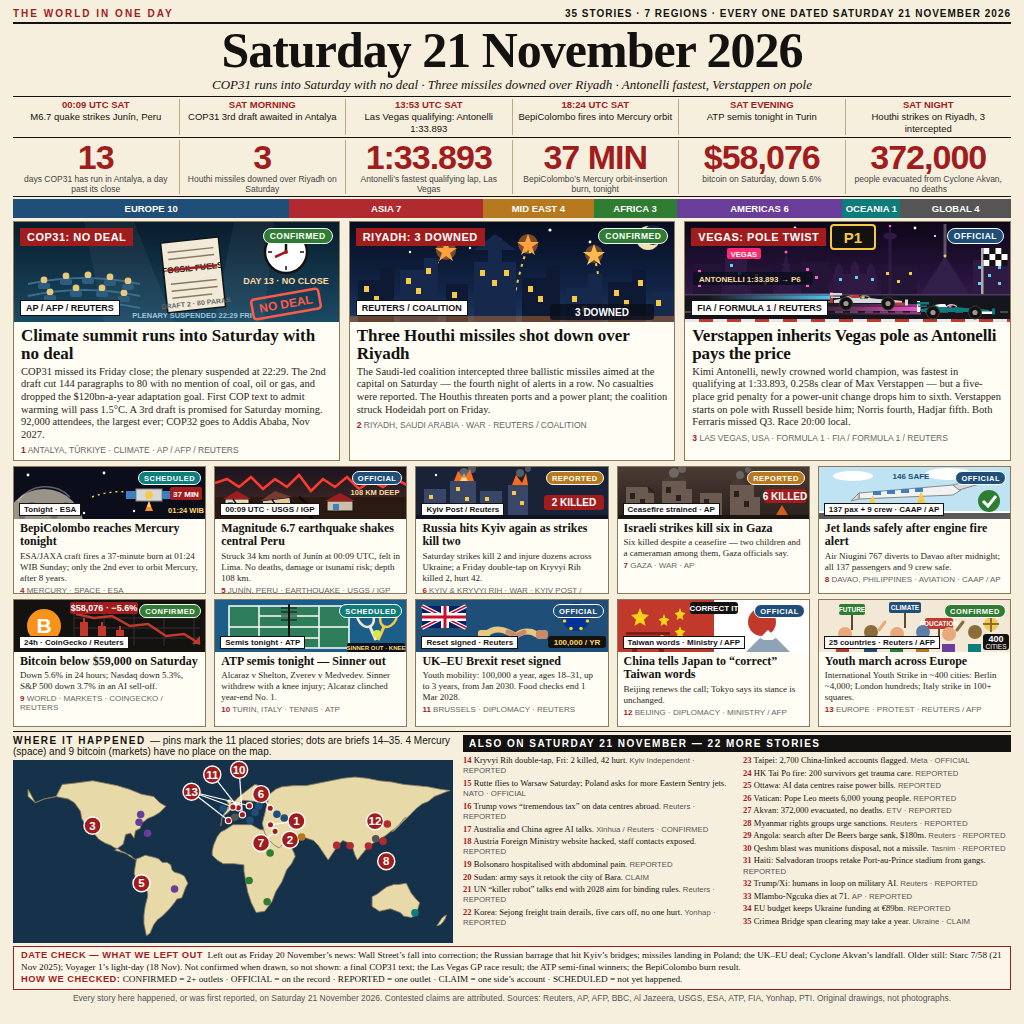
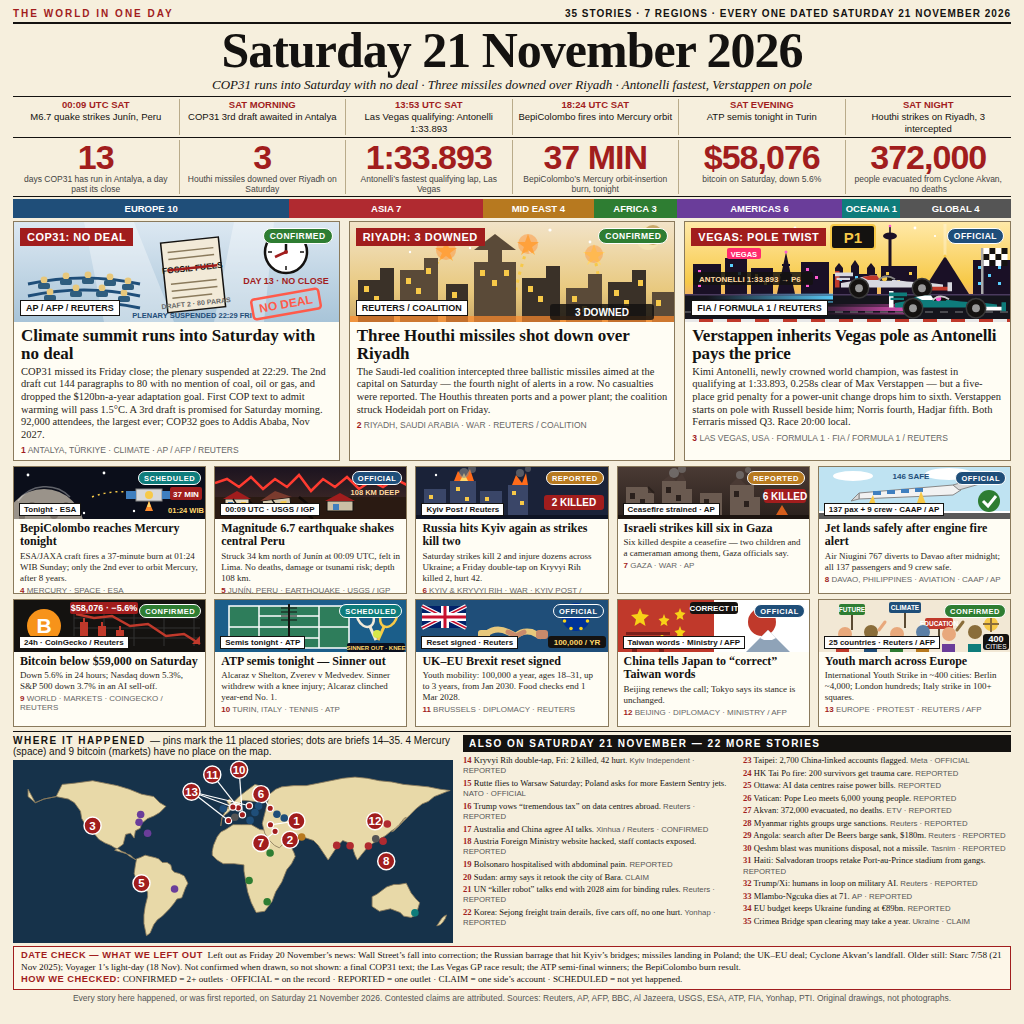
news-image-20261121 v3: brighter leads, bigger Vegas hero

Changed region(s): [[0.0, 0.2188, 1.0, 0.3125]]

diff --git a/page.html b/page.html
@@ -84,7 +84,7 @@ h1{font-size:50px;line-height:1.02;text-align:center;letter-spacing:-1px;padding
 <div class="leads">
 <div class="lead">
 <div class="art" style="background:#0d2a3d">
-<svg width="325" height="100" viewBox="0 0 325 100"><defs><linearGradient id="gCop" x1="0" y1="0" x2="0" y2="1"><stop offset="0" stop-color="#081c2c"/><stop offset="1" stop-color="#1a4a64"/></linearGradient></defs><rect x="0" y="0" width="325" height="100" fill="url(#gCop)"/><polygon points="70,0 120,0 160,100 90,100" fill="#ffffff" opacity="0.05"/><polygon points="220,0 260,0 250,100 200,100" fill="#ffffff" opacity="0.05"/><g stroke="#3f6d8e" stroke-width="2" fill="none"><path d="M14 62 Q70 50 126 62"/><path d="M14 74 Q70 62 126 74"/><path d="M14 86 Q70 74 126 86"/></g><g fill="#e8c87c"><circle cx="30" cy="58" r="3.4"/><circle cx="52" cy="54" r="3.4"/><circle cx="74" cy="53" r="3.4"/><circle cx="96" cy="55" r="3.4"/><circle cx="114" cy="59" r="3.4"/><circle cx="36" cy="70" r="3.4"/><circle cx="62" cy="66" r="3.4"/><circle cx="88" cy="66" r="3.4"/><circle cx="110" cy="71" r="3.4"/></g><g fill="#2f5d7e"><rect x="24" y="61" width="12" height="6" rx="2"/><rect x="46" y="57" width="12" height="6" rx="2"/><rect x="68" y="56" width="12" height="6" rx="2"/><rect x="90" y="58" width="12" height="6" rx="2"/><rect x="108" y="62" width="12" height="6" rx="2"/><rect x="30" y="73" width="12" height="6" rx="2"/><rect x="56" y="69" width="12" height="6" rx="2"/><rect x="82" y="69" width="12" height="6" rx="2"/><rect x="104" y="74" width="12" height="6" rx="2"/></g><text x="178" y="96" font-family="Arial" font-size="7.5" font-weight="700" fill="#9fc4dd" text-anchor="middle">PLENARY SUSPENDED 22:29 FRI</text><g transform="rotate(-6 178 52)"><rect x="150" y="18" width="58" height="70" fill="#f2ead8" stroke="#141210" stroke-width="1.5"/><g stroke="#8a7a5c" stroke-width="1.5"><line x1="156" y1="28" x2="202" y2="28"/><line x1="156" y1="35" x2="202" y2="35"/><line x1="156" y1="60" x2="202" y2="60"/><line x1="156" y1="67" x2="202" y2="67"/><line x1="156" y1="74" x2="196" y2="74"/></g><text x="179" y="49" font-family="Arial" font-size="8.5" font-weight="700" fill="#141210" text-anchor="middle">FOSSIL FUELS</text><line x1="154" y1="46" x2="204" y2="46" stroke="#a11d1d" stroke-width="2.5"/><text x="179" y="84" font-family="Arial" font-size="7" font-weight="700" fill="#666" text-anchor="middle">DRAFT 2 &middot; 80 PARAS</text></g><circle cx="272" cy="30" r="21" fill="#fff" stroke="#141210" stroke-width="2.5"/><g stroke="#141210" stroke-width="1.5"><line x1="272" y1="12" x2="272" y2="16"/><line x1="272" y1="44" x2="272" y2="48"/><line x1="254" y1="30" x2="258" y2="30"/><line x1="286" y1="30" x2="290" y2="30"/></g><line x1="272" y1="30" x2="272" y2="17" stroke="#141210" stroke-width="2.5"/><line x1="272" y1="30" x2="261" y2="35" stroke="#a11d1d" stroke-width="2.5"/><circle cx="272" cy="30" r="2" fill="#a11d1d"/><text x="272" y="62" font-family="Arial" font-size="9" font-weight="700" fill="#ffd9a0" text-anchor="middle">DAY 13 &middot; NO CLOSE</text><g transform="rotate(-10 272 82)"><rect x="238" y="72" width="68" height="20" rx="3" fill="none" stroke="#ff5a4a" stroke-width="2.5"/><text x="272" y="86" font-family="Arial" font-size="12" font-weight="700" fill="#ff5a4a" text-anchor="middle">NO DEAL</text></g></svg>
+<svg width="325" height="100" viewBox="0 0 325 100"><defs><linearGradient id="gCop" x1="0" y1="0" x2="0" y2="1"><stop offset="0" stop-color="#dce8f2"/><stop offset="1" stop-color="#a8c4d8"/></linearGradient></defs><rect x="0" y="0" width="325" height="100" fill="url(#gCop)"/><polygon points="70,0 120,0 160,100 90,100" fill="#ffffff" opacity="0.35"/><polygon points="220,0 260,0 250,100 200,100" fill="#ffffff" opacity="0.35"/><g stroke="#1f4e79" stroke-width="3" fill="none"><path d="M14 62 Q70 50 126 62"/><path d="M14 74 Q70 62 126 74"/><path d="M14 86 Q70 74 126 86"/></g><g fill="#e8c87c"><circle cx="30" cy="58" r="3.4"/><circle cx="52" cy="54" r="3.4"/><circle cx="74" cy="53" r="3.4"/><circle cx="96" cy="55" r="3.4"/><circle cx="114" cy="59" r="3.4"/><circle cx="36" cy="70" r="3.4"/><circle cx="62" cy="66" r="3.4"/><circle cx="88" cy="66" r="3.4"/><circle cx="110" cy="71" r="3.4"/></g><g fill="#2f5d7e"><rect x="24" y="61" width="12" height="6" rx="2"/><rect x="46" y="57" width="12" height="6" rx="2"/><rect x="68" y="56" width="12" height="6" rx="2"/><rect x="90" y="58" width="12" height="6" rx="2"/><rect x="108" y="62" width="12" height="6" rx="2"/><rect x="30" y="73" width="12" height="6" rx="2"/><rect x="56" y="69" width="12" height="6" rx="2"/><rect x="82" y="69" width="12" height="6" rx="2"/><rect x="104" y="74" width="12" height="6" rx="2"/></g><text x="178" y="96" font-family="Arial" font-size="7.5" font-weight="700" fill="#1f4e79" text-anchor="middle">PLENARY SUSPENDED 22:29 FRI</text><g transform="rotate(-6 178 52)"><rect x="150" y="18" width="58" height="70" fill="#f2ead8" stroke="#141210" stroke-width="1.5"/><g stroke="#8a7a5c" stroke-width="1.5"><line x1="156" y1="28" x2="202" y2="28"/><line x1="156" y1="35" x2="202" y2="35"/><line x1="156" y1="60" x2="202" y2="60"/><line x1="156" y1="67" x2="202" y2="67"/><line x1="156" y1="74" x2="196" y2="74"/></g><text x="179" y="49" font-family="Arial" font-size="8.5" font-weight="700" fill="#141210" text-anchor="middle">FOSSIL FUELS</text><line x1="154" y1="46" x2="204" y2="46" stroke="#a11d1d" stroke-width="2.5"/><text x="179" y="84" font-family="Arial" font-size="7" font-weight="700" fill="#666" text-anchor="middle">DRAFT 2 &middot; 80 PARAS</text></g><circle cx="272" cy="30" r="21" fill="#fff" stroke="#141210" stroke-width="2.5"/><g stroke="#141210" stroke-width="1.5"><line x1="272" y1="12" x2="272" y2="16"/><line x1="272" y1="44" x2="272" y2="48"/><line x1="254" y1="30" x2="258" y2="30"/><line x1="286" y1="30" x2="290" y2="30"/></g><line x1="272" y1="30" x2="272" y2="17" stroke="#141210" stroke-width="2.5"/><line x1="272" y1="30" x2="261" y2="35" stroke="#a11d1d" stroke-width="2.5"/><circle cx="272" cy="30" r="2" fill="#a11d1d"/><text x="272" y="62" font-family="Arial" font-size="9" font-weight="700" fill="#a11d1d" text-anchor="middle">DAY 13 &middot; NO CLOSE</text><g transform="rotate(-10 272 82)"><rect x="238" y="72" width="68" height="20" rx="3" fill="none" stroke="#ff5a4a" stroke-width="2.5"/><text x="272" y="86" font-family="Arial" font-size="12" font-weight="700" fill="#ff5a4a" text-anchor="middle">NO DEAL</text></g></svg>
 <span class="flag">COP31: NO DEAL</span><span class="pill p-conf">CONFIRMED</span><span class="tag">AP / AFP / REUTERS</span></div>
 <h2>Climate summit runs into Saturday with no deal</h2>
 <p>COP31 missed its Friday close; the plenary suspended at 22:29. The 2nd draft cut 144 paragraphs to 80 with no mention of coal, oil or gas, and dropped the $120bn-a-year adaptation goal. First COP text to admit warming will pass 1.5&deg;C. A 3rd draft is promised for Saturday morning. 92,000 attendees, the largest ever; COP32 goes to Addis Ababa, Nov 2027.</p>
@@ -92,7 +92,7 @@ h1{font-size:50px;line-height:1.02;text-align:center;letter-spacing:-1px;padding
 </div>
 <div class="lead">
 <div class="art" style="background:#101a33">
-<svg width="325" height="100" viewBox="0 0 325 100"><defs><linearGradient id="gSau" x1="0" y1="0" x2="0" y2="1"><stop offset="0" stop-color="#070d1f"/><stop offset="0.7" stop-color="#12264a"/><stop offset="1" stop-color="#1d3a5f"/></linearGradient></defs><rect x="0" y="0" width="325" height="100" fill="url(#gSau)"/><g fill="#fff"><circle cx="30" cy="14" r="1.6"/><circle cx="90" cy="10" r="1.6"/><circle cx="150" cy="18" r="1.4"/><circle cx="200" cy="8" r="1.6"/><circle cx="240" cy="20" r="1.4"/><circle cx="120" cy="26" r="1.2"/><circle cx="60" cy="30" r="1.2"/><circle cx="180" cy="30" r="1.2"/></g><circle cx="298" cy="16" r="12" fill="#f4e3b2"/><circle cx="303" cy="13" r="10" fill="#12264a"/><g><path d="M60 100 Q70 60 96 30" stroke="#f7c948" stroke-width="2" fill="none" stroke-dasharray="3 5"/><path d="M160 100 Q166 58 178 24" stroke="#f7c948" stroke-width="2" fill="none" stroke-dasharray="3 5"/><path d="M250 100 Q252 62 244 34" stroke="#f7c948" stroke-width="2" fill="none" stroke-dasharray="3 5"/></g><g><path d="M96 18 L99 26 L107 26 L100 31 L103 39 L96 34 L89 39 L92 31 L85 26 L93 26Z" fill="#ffb347"/><circle cx="96" cy="28" r="10" fill="#ff8c2e" opacity="0.45"/><path d="M178 12 L181 20 L189 20 L182 25 L185 33 L178 28 L171 33 L174 25 L167 20 L175 20Z" fill="#ffb347"/><circle cx="178" cy="22" r="10" fill="#ff8c2e" opacity="0.45"/><path d="M244 22 L247 30 L255 30 L248 35 L251 43 L244 38 L237 43 L240 35 L233 30 L241 30Z" fill="#ffd76a"/><circle cx="244" cy="32" r="9" fill="#ff8c2e" opacity="0.4"/></g><g><path d="M8 100 L8 58 L30 58 L30 46 L44 46 L44 100Z" fill="#0e1a33"/><path d="M50 100 L50 48 L74 48 L74 36 L88 36 L88 100Z" fill="#16294d"/><path d="M96 100 L96 62 L118 62 L118 100Z" fill="#0e1a33"/><path d="M124 100 L124 40 L138 40 L138 28 L152 28 L152 40 L166 40 L166 100Z" fill="#16294d"/><path d="M124 28 L145 12 L166 28Z" fill="#16294d"/><path d="M172 100 L172 56 L196 56 L196 44 L210 44 L210 100Z" fill="#0e1a33"/><path d="M216 100 L216 66 L238 66 L238 52 L252 52 L252 100Z" fill="#16294d"/><path d="M258 100 L258 60 L282 60 L282 48 L296 48 L296 100Z" fill="#0e1a33"/><path d="M302 100 L302 70 L325 70 L325 100Z" fill="#16294d"/></g><g fill="#f7c948"><rect x="14" y="64" width="5" height="6"/><rect x="24" y="74" width="5" height="6"/><rect x="56" y="56" width="5" height="6"/><rect x="66" y="66" width="5" height="6"/><rect x="76" y="46" width="5" height="6"/><rect x="102" y="70" width="5" height="6"/><rect x="130" y="48" width="5" height="6"/><rect x="142" y="58" width="5" height="6"/><rect x="154" y="48" width="5" height="6"/><rect x="178" y="64" width="5" height="6"/><rect x="188" y="74" width="5" height="6"/><rect x="222" y="74" width="5" height="6"/><rect x="232" y="84" width="5" height="6"/><rect x="264" y="68" width="5" height="6"/><rect x="274" y="78" width="5" height="6"/><rect x="288" y="58" width="5" height="6"/><rect x="306" y="78" width="5" height="6"/></g><rect x="0" y="94" width="325" height="6" fill="#ff8c2e" opacity="0.35"/><rect x="200" y="82" width="104" height="16" rx="3" fill="#0a0f1e" opacity="0.85"/><text x="252" y="94" font-family="Arial" font-size="10" font-weight="700" fill="#fff" text-anchor="middle">3 DOWNED</text></svg>
+<svg width="325" height="100" viewBox="0 0 325 100"><defs><linearGradient id="gSau" x1="0" y1="0" x2="0" y2="1"><stop offset="0" stop-color="#f2e3c8"/><stop offset="0.7" stop-color="#e8c87c"/><stop offset="1" stop-color="#c9a86a"/></linearGradient></defs><rect x="0" y="0" width="325" height="100" fill="url(#gSau)"/><g fill="#fff"><circle cx="30" cy="14" r="1.6"/><circle cx="90" cy="10" r="1.6"/><circle cx="150" cy="18" r="1.4"/><circle cx="200" cy="8" r="1.6"/><circle cx="240" cy="20" r="1.4"/><circle cx="120" cy="26" r="1.2"/><circle cx="60" cy="30" r="1.2"/><circle cx="180" cy="30" r="1.2"/></g><circle cx="298" cy="16" r="12" fill="#f4e3b2"/><circle cx="303" cy="13" r="10" fill="#c9a86a"/><g><path d="M60 100 Q70 60 96 30" stroke="#f7c948" stroke-width="3" fill="none" stroke-dasharray="3 5"/><path d="M160 100 Q166 58 178 24" stroke="#f7c948" stroke-width="3" fill="none" stroke-dasharray="3 5"/><path d="M250 100 Q252 62 244 34" stroke="#f7c948" stroke-width="3" fill="none" stroke-dasharray="3 5"/></g><g><path d="M96 18 L99 26 L107 26 L100 31 L103 39 L96 34 L89 39 L92 31 L85 26 L93 26Z" fill="#ffb347"/><circle cx="96" cy="28" r="10" fill="#ff8c2e" opacity="0.45"/><path d="M178 12 L181 20 L189 20 L182 25 L185 33 L178 28 L171 33 L174 25 L167 20 L175 20Z" fill="#ffb347"/><circle cx="178" cy="22" r="10" fill="#ff8c2e" opacity="0.45"/><path d="M244 22 L247 30 L255 30 L248 35 L251 43 L244 38 L237 43 L240 35 L233 30 L241 30Z" fill="#ffd76a"/><circle cx="244" cy="32" r="9" fill="#ff8c2e" opacity="0.4"/></g><g><path d="M8 100 L8 58 L30 58 L30 46 L44 46 L44 100Z" fill="#3a3128"/><path d="M50 100 L50 48 L74 48 L74 36 L88 36 L88 100Z" fill="#5a4a38"/><path d="M96 100 L96 62 L118 62 L118 100Z" fill="#3a3128"/><path d="M124 100 L124 40 L138 40 L138 28 L152 28 L152 40 L166 40 L166 100Z" fill="#5a4a38"/><path d="M124 28 L145 12 L166 28Z" fill="#5a4a38"/><path d="M172 100 L172 56 L196 56 L196 44 L210 44 L210 100Z" fill="#3a3128"/><path d="M216 100 L216 66 L238 66 L238 52 L252 52 L252 100Z" fill="#5a4a38"/><path d="M258 100 L258 60 L282 60 L282 48 L296 48 L296 100Z" fill="#3a3128"/><path d="M302 100 L302 70 L325 70 L325 100Z" fill="#5a4a38"/></g><g fill="#f7c948"><rect x="14" y="64" width="5" height="6"/><rect x="24" y="74" width="5" height="6"/><rect x="56" y="56" width="5" height="6"/><rect x="66" y="66" width="5" height="6"/><rect x="76" y="46" width="5" height="6"/><rect x="102" y="70" width="5" height="6"/><rect x="130" y="48" width="5" height="6"/><rect x="142" y="58" width="5" height="6"/><rect x="154" y="48" width="5" height="6"/><rect x="178" y="64" width="5" height="6"/><rect x="188" y="74" width="5" height="6"/><rect x="222" y="74" width="5" height="6"/><rect x="232" y="84" width="5" height="6"/><rect x="264" y="68" width="5" height="6"/><rect x="274" y="78" width="5" height="6"/><rect x="288" y="58" width="5" height="6"/><rect x="306" y="78" width="5" height="6"/></g><rect x="0" y="94" width="325" height="6" fill="#ff8c2e" opacity="0.7"/><rect x="200" y="82" width="104" height="16" rx="3" fill="#141210" opacity="0.85"/><text x="252" y="94" font-family="Arial" font-size="10" font-weight="700" fill="#fff" text-anchor="middle">3 DOWNED</text></svg>
 <span class="flag">RIYADH: 3 DOWNED</span><span class="pill p-conf">CONFIRMED</span><span class="tag">REUTERS / COALITION</span></div>
 <h2>Three Houthi missiles shot down over Riyadh</h2>
 <p>The Saudi-led coalition intercepted three ballistic missiles aimed at the capital on Saturday &mdash; the fourth night of alerts in a row. No casualties were reported. The Houthis threaten ports and a power plant; the coalition struck Hodeidah port on Friday.</p>
@@ -100,7 +100,7 @@ h1{font-size:50px;line-height:1.02;text-align:center;letter-spacing:-1px;padding
 </div>
 <div class="lead">
 <div class="art" style="background:#241030">
-<svg width="325" height="100" viewBox="0 0 325 100"><defs><linearGradient id="gVeg" x1="0" y1="0" x2="0" y2="1"><stop offset="0" stop-color="#0d0618"/><stop offset="0.6" stop-color="#2a1440"/><stop offset="1" stop-color="#4a2050"/></linearGradient><linearGradient id="gTrC" x1="0" y1="0" x2="1" y2="0"><stop offset="0" stop-color="#5ad0ff" stop-opacity="0"/><stop offset="1" stop-color="#5ad0ff" stop-opacity="0.95"/></linearGradient><linearGradient id="gTrM" x1="0" y1="0" x2="1" y2="0"><stop offset="0" stop-color="#ff5ad0" stop-opacity="0"/><stop offset="1" stop-color="#ff5ad0" stop-opacity="0.95"/></linearGradient></defs><rect x="0" y="0" width="325" height="100" fill="url(#gVeg)"/><g fill="#fff"><circle cx="24" cy="8" r="1.4"/><circle cx="110" cy="6" r="1.4"/><circle cx="160" cy="10" r="1.2"/><circle cx="230" cy="6" r="1.4"/><circle cx="70" cy="14" r="1.1"/><circle cx="250" cy="14" r="1.1"/></g><g><rect x="8" y="42" width="28" height="30" fill="#241436"/><rect x="40" y="36" width="22" height="36" fill="#2e1a42"/><rect x="66" y="46" width="22" height="26" fill="#241436"/><path d="M92 72 L101 30 L110 72Z" fill="#2e1a42"/><rect x="95" y="52" width="12" height="2.5" fill="#2e1a42"/><rect x="97" y="42" width="8" height="2" fill="#2e1a42"/><circle cx="101" cy="30" r="1.5" fill="#ff5ad0"/><rect x="116" y="40" width="28" height="32" fill="#241436"/><rect x="148" y="52" width="44" height="20" fill="#2e1a42"/><path d="M150 46 L154 41 L158 46Z M166 44 L170 38 L174 44Z M182 46 L186 41 L190 46Z" fill="#2e1a42"/><rect x="150" y="46" width="8" height="6" fill="#2e1a42"/><rect x="166" y="44" width="8" height="8" fill="#2e1a42"/><rect x="182" y="46" width="8" height="6" fill="#2e1a42"/><rect x="196" y="44" width="36" height="28" fill="#241436"/><rect x="203.5" y="16" width="3" height="56" fill="#2e1a42"/><ellipse cx="205" cy="14" rx="7" ry="3.5" fill="#2e1a42"/><rect x="204.2" y="4" width="1.6" height="8" fill="#2e1a42"/><circle cx="205" cy="4" r="1.3" fill="#ff5ad0"/><path d="M236 72 L260 34 L284 72Z" fill="#33204a"/><rect x="258.5" y="2" width="3" height="32" fill="#fff" opacity="0.3"/><circle cx="260" cy="34" r="1.5" fill="#f7c948"/><rect x="288" y="38" width="37" height="34" fill="#2e1a42"/></g><g fill="#ff5ad0"><rect x="13" y="48" width="3" height="3"/><rect x="22" y="56" width="3" height="3"/><rect x="13" y="62" width="3" height="3"/><rect x="121" y="46" width="3" height="3"/><rect x="130" y="54" width="3" height="3"/><rect x="121" y="62" width="3" height="3"/></g><g fill="#5ad0ff"><rect x="45" y="42" width="3" height="3"/><rect x="53" y="50" width="3" height="3"/><rect x="45" y="58" width="3" height="3"/><rect x="154" y="56" width="3" height="3"/><rect x="170" y="54" width="3" height="3"/><rect x="186" y="56" width="3" height="3"/><rect x="293" y="44" width="3" height="3"/><rect x="303" y="52" width="3" height="3"/><rect x="313" y="44" width="3" height="3"/><rect x="293" y="60" width="3" height="3"/><rect x="313" y="60" width="3" height="3"/></g><g fill="#f7c948"><rect x="70" y="52" width="3" height="3"/><rect x="79" y="60" width="3" height="3"/><rect x="201" y="50" width="3" height="3"/><rect x="212" y="58" width="3" height="3"/><rect x="224" y="50" width="3" height="3"/></g><rect x="42" y="26" width="34" height="11" rx="2" fill="#ff2a6d"/><text x="59" y="34.5" font-family="Arial" font-size="7.5" font-weight="700" fill="#fff" text-anchor="middle">VEGAS</text><rect x="0" y="72" width="325" height="28" fill="#15151d"/><rect x="0" y="72" width="325" height="1.5" fill="#4a3a5e"/><line x1="0" y1="90" x2="325" y2="90" stroke="#e8e8e8" stroke-width="1.2" stroke-dasharray="8 7" opacity="0.5"/><rect x="0" y="97" width="325" height="3" fill="#c0392b"/><line x1="0" y1="98.5" x2="325" y2="98.5" stroke="#e8e8e8" stroke-width="3" stroke-dasharray="14 14"/><rect x="22" y="73.5" width="126" height="4" fill="url(#gTrC)"/><rect x="48" y="71.5" width="100" height="1.8" fill="url(#gTrC)" opacity="0.6"/><rect x="40" y="79" width="108" height="1.8" fill="url(#gTrC)" opacity="0.6"/><rect x="118" y="84.5" width="118" height="4.5" fill="url(#gTrM)"/><rect x="140" y="82" width="96" height="2" fill="url(#gTrM)" opacity="0.6"/><rect x="132" y="90.5" width="104" height="2" fill="url(#gTrM)" opacity="0.6"/><g transform="translate(145 68)"><rect x="0" y="2" width="3" height="11" fill="#c0392b"/><rect x="0" y="3" width="12" height="2.5" fill="#d8d8e0"/><rect x="1" y="6.5" width="9" height="1.5" fill="#d8d8e0"/><path d="M4 13 L4 10 L10 9 L18 6 L24 5 L28 5 L30 8 L40 8 L48 9 L64 10 L72 11 L72 13 Z" fill="#d8d8e0"/><path d="M18 6 L24 5 L28 5 L30 8 L22 8 Z" fill="#c0392b"/><rect x="30" y="6.5" width="8" height="2" fill="#141210"/><circle cx="33" cy="7" r="1.8" fill="#f7c948"/><path d="M29 8 Q34 3.5 40 7.5" stroke="#888" stroke-width="1.2" fill="none"/><rect x="62" y="12.5" width="16" height="2.5" fill="#c0392b"/><rect x="75" y="9.5" width="3" height="6" fill="#d8d8e0"/><circle cx="16" cy="13.5" r="6.5" fill="#141210" stroke="#3a3a3a" stroke-width="1"/><circle cx="16" cy="13.5" r="2.6" fill="#999"/><circle cx="58" cy="13.5" r="6.5" fill="#141210" stroke="#3a3a3a" stroke-width="1"/><circle cx="58" cy="13.5" r="2.6" fill="#999"/></g><g transform="translate(232 77)"><rect x="0" y="2" width="3" height="11" fill="#fff"/><rect x="0" y="3" width="12" height="2.5" fill="#0e7c7b"/><rect x="1" y="6.5" width="9" height="1.5" fill="#0e7c7b"/><path d="M4 13 L4 10 L10 9 L18 6 L24 5 L28 5 L30 8 L40 8 L48 9 L64 10 L72 11 L72 13 Z" fill="#0e7c7b"/><path d="M18 6 L24 5 L28 5 L30 8 L22 8 Z" fill="#fff"/><rect x="30" y="6.5" width="8" height="2" fill="#141210"/><circle cx="33" cy="7" r="1.8" fill="#ff5ad0"/><path d="M29 8 Q34 3.5 40 7.5" stroke="#ccc" stroke-width="1.2" fill="none"/><rect x="62" y="12.5" width="16" height="2.5" fill="#fff"/><rect x="75" y="9.5" width="3" height="6" fill="#0e7c7b"/><circle cx="16" cy="13.5" r="6.5" fill="#141210" stroke="#3a3a3a" stroke-width="1"/><circle cx="16" cy="13.5" r="2.6" fill="#999"/><circle cx="58" cy="13.5" r="6.5" fill="#141210" stroke="#3a3a3a" stroke-width="1"/><circle cx="58" cy="13.5" r="2.6" fill="#999"/></g><rect x="296" y="26" width="2.5" height="46" fill="#aaa"/><g><rect x="298.5" y="26" width="6" height="6" fill="#fff"/><rect x="304.5" y="26" width="6" height="6" fill="#141210"/><rect x="310.5" y="26" width="6" height="6" fill="#fff"/><rect x="316.5" y="26" width="6" height="6" fill="#141210"/><rect x="298.5" y="32" width="6" height="6" fill="#141210"/><rect x="304.5" y="32" width="6" height="6" fill="#fff"/><rect x="310.5" y="32" width="6" height="6" fill="#141210"/><rect x="316.5" y="32" width="6" height="6" fill="#fff"/><rect x="298.5" y="38" width="6" height="6" fill="#fff"/><rect x="304.5" y="38" width="6" height="6" fill="#141210"/><rect x="310.5" y="38" width="6" height="6" fill="#fff"/><rect x="316.5" y="38" width="6" height="6" fill="#141210"/></g><rect x="146" y="3" width="44" height="24" rx="3" fill="#141210" stroke="#f7c948" stroke-width="2"/><text x="168" y="21" font-family="Arial" font-size="15" font-weight="700" fill="#f7c948" text-anchor="middle">P1</text><rect x="8" y="50" width="120" height="13" rx="2" fill="#0a0f1e" opacity="0.85"/><text x="14" y="59.5" font-family="Arial" font-size="8" font-weight="700" fill="#ffd9a0">ANTONELLI 1:33.893 &rarr; P6</text></svg>
+<svg width="325" height="100" viewBox="0 0 325 100"><defs><linearGradient id="gVeg" x1="0" y1="0" x2="0" y2="1"><stop offset="0" stop-color="#ffe9a8"/><stop offset="0.6" stop-color="#f7c948"/><stop offset="1" stop-color="#e88ca0"/></linearGradient><linearGradient id="gTrC" x1="0" y1="0" x2="1" y2="0"><stop offset="0" stop-color="#5ad0ff" stop-opacity="0"/><stop offset="1" stop-color="#5ad0ff" stop-opacity="0.95"/></linearGradient><linearGradient id="gTrM" x1="0" y1="0" x2="1" y2="0"><stop offset="0" stop-color="#ff5ad0" stop-opacity="0"/><stop offset="1" stop-color="#ff5ad0" stop-opacity="0.95"/></linearGradient></defs><rect x="0" y="0" width="325" height="100" fill="url(#gVeg)"/><g fill="#fff"><circle cx="24" cy="8" r="1.4"/><circle cx="110" cy="6" r="1.4"/><circle cx="160" cy="10" r="1.2"/><circle cx="230" cy="6" r="1.4"/><circle cx="70" cy="14" r="1.1"/><circle cx="250" cy="14" r="1.1"/></g><g><rect x="8" y="42" width="28" height="30" fill="#1a1026"/><rect x="40" y="36" width="22" height="36" fill="#1a1026"/><rect x="66" y="46" width="22" height="26" fill="#1a1026"/><path d="M92 72 L101 30 L110 72Z" fill="#1a1026"/><rect x="95" y="52" width="12" height="2.5" fill="#1a1026"/><rect x="97" y="42" width="8" height="2" fill="#1a1026"/><circle cx="101" cy="30" r="1.5" fill="#ff5ad0"/><rect x="116" y="40" width="28" height="32" fill="#1a1026"/><rect x="148" y="52" width="44" height="20" fill="#1a1026"/><path d="M150 46 L154 41 L158 46Z M166 44 L170 38 L174 44Z M182 46 L186 41 L190 46Z" fill="#1a1026"/><rect x="150" y="46" width="8" height="6" fill="#1a1026"/><rect x="166" y="44" width="8" height="8" fill="#1a1026"/><rect x="182" y="46" width="8" height="6" fill="#1a1026"/><rect x="196" y="44" width="36" height="28" fill="#1a1026"/><rect x="203.5" y="16" width="3" height="56" fill="#1a1026"/><ellipse cx="205" cy="14" rx="7" ry="3.5" fill="#1a1026"/><rect x="204.2" y="4" width="1.6" height="8" fill="#1a1026"/><circle cx="205" cy="4" r="1.3" fill="#ff5ad0"/><path d="M236 72 L260 34 L284 72Z" fill="#1a1026"/><rect x="258.5" y="2" width="3" height="32" fill="#fff" opacity="0.3"/><circle cx="260" cy="34" r="1.5" fill="#f7c948"/><rect x="288" y="38" width="37" height="34" fill="#1a1026"/></g><g fill="#ff5ad0"><rect x="13" y="48" width="3" height="3"/><rect x="22" y="56" width="3" height="3"/><rect x="13" y="62" width="3" height="3"/><rect x="121" y="46" width="3" height="3"/><rect x="130" y="54" width="3" height="3"/><rect x="121" y="62" width="3" height="3"/></g><g fill="#5ad0ff"><rect x="45" y="42" width="3" height="3"/><rect x="53" y="50" width="3" height="3"/><rect x="45" y="58" width="3" height="3"/><rect x="154" y="56" width="3" height="3"/><rect x="170" y="54" width="3" height="3"/><rect x="186" y="56" width="3" height="3"/><rect x="293" y="44" width="3" height="3"/><rect x="303" y="52" width="3" height="3"/><rect x="313" y="44" width="3" height="3"/><rect x="293" y="60" width="3" height="3"/><rect x="313" y="60" width="3" height="3"/></g><g fill="#f7c948"><rect x="70" y="52" width="3" height="3"/><rect x="79" y="60" width="3" height="3"/><rect x="201" y="50" width="3" height="3"/><rect x="212" y="58" width="3" height="3"/><rect x="224" y="50" width="3" height="3"/></g><rect x="42" y="26" width="34" height="11" rx="2" fill="#ff2a6d"/><text x="59" y="34.5" font-family="Arial" font-size="7.5" font-weight="700" fill="#fff" text-anchor="middle">VEGAS</text><rect x="0" y="72" width="325" height="28" fill="#15151d"/><rect x="0" y="72" width="325" height="1.5" fill="#4a3a5e"/><line x1="0" y1="90" x2="325" y2="90" stroke="#e8e8e8" stroke-width="1.2" stroke-dasharray="8 7" opacity="0.5"/><rect x="0" y="97" width="325" height="3" fill="#c0392b"/><line x1="0" y1="98.5" x2="325" y2="98.5" stroke="#e8e8e8" stroke-width="3" stroke-dasharray="14 14"/><rect x="22" y="73.5" width="126" height="4" fill="url(#gTrC)"/><rect x="48" y="71.5" width="100" height="1.8" fill="url(#gTrC)" opacity="0.6"/><rect x="40" y="79" width="108" height="1.8" fill="url(#gTrC)" opacity="0.6"/><rect x="118" y="84.5" width="118" height="4.5" fill="url(#gTrM)"/><rect x="140" y="82" width="96" height="2" fill="url(#gTrM)" opacity="0.6"/><rect x="132" y="90.5" width="104" height="2" fill="url(#gTrM)" opacity="0.6"/><g transform="translate(150 46) scale(1.5)"><rect x="0" y="2" width="3" height="11" fill="#c0392b"/><rect x="0" y="3" width="12" height="2.5" fill="#d8d8e0"/><rect x="1" y="6.5" width="9" height="1.5" fill="#d8d8e0"/><path d="M4 13 L4 10 L10 9 L18 6 L24 5 L28 5 L30 8 L40 8 L48 9 L64 10 L72 11 L72 13 Z" fill="#d8d8e0"/><path d="M18 6 L24 5 L28 5 L30 8 L22 8 Z" fill="#c0392b"/><rect x="30" y="6.5" width="8" height="2" fill="#141210"/><circle cx="33" cy="7" r="1.8" fill="#f7c948"/><path d="M29 8 Q34 3.5 40 7.5" stroke="#888" stroke-width="1.2" fill="none"/><rect x="62" y="12.5" width="16" height="2.5" fill="#c0392b"/><rect x="75" y="9.5" width="3" height="6" fill="#d8d8e0"/><circle cx="16" cy="13.5" r="6.5" fill="#141210" stroke="#3a3a3a" stroke-width="1"/><circle cx="16" cy="13.5" r="2.6" fill="#999"/><circle cx="58" cy="13.5" r="6.5" fill="#141210" stroke="#3a3a3a" stroke-width="1"/><circle cx="58" cy="13.5" r="2.6" fill="#999"/></g><g transform="translate(204 66) scale(1.5)"><rect x="0" y="2" width="3" height="11" fill="#fff"/><rect x="0" y="3" width="12" height="2.5" fill="#0e7c7b"/><rect x="1" y="6.5" width="9" height="1.5" fill="#0e7c7b"/><path d="M4 13 L4 10 L10 9 L18 6 L24 5 L28 5 L30 8 L40 8 L48 9 L64 10 L72 11 L72 13 Z" fill="#0e7c7b"/><path d="M18 6 L24 5 L28 5 L30 8 L22 8 Z" fill="#fff"/><rect x="30" y="6.5" width="8" height="2" fill="#141210"/><circle cx="33" cy="7" r="1.8" fill="#ff5ad0"/><path d="M29 8 Q34 3.5 40 7.5" stroke="#ccc" stroke-width="1.2" fill="none"/><rect x="62" y="12.5" width="16" height="2.5" fill="#fff"/><rect x="75" y="9.5" width="3" height="6" fill="#0e7c7b"/><circle cx="16" cy="13.5" r="6.5" fill="#141210" stroke="#3a3a3a" stroke-width="1"/><circle cx="16" cy="13.5" r="2.6" fill="#999"/><circle cx="58" cy="13.5" r="6.5" fill="#141210" stroke="#3a3a3a" stroke-width="1"/><circle cx="58" cy="13.5" r="2.6" fill="#999"/></g><rect x="296" y="26" width="2.5" height="46" fill="#aaa"/><g><rect x="298.5" y="26" width="6" height="6" fill="#fff"/><rect x="304.5" y="26" width="6" height="6" fill="#141210"/><rect x="310.5" y="26" width="6" height="6" fill="#fff"/><rect x="316.5" y="26" width="6" height="6" fill="#141210"/><rect x="298.5" y="32" width="6" height="6" fill="#141210"/><rect x="304.5" y="32" width="6" height="6" fill="#fff"/><rect x="310.5" y="32" width="6" height="6" fill="#141210"/><rect x="316.5" y="32" width="6" height="6" fill="#fff"/><rect x="298.5" y="38" width="6" height="6" fill="#fff"/><rect x="304.5" y="38" width="6" height="6" fill="#141210"/><rect x="310.5" y="38" width="6" height="6" fill="#fff"/><rect x="316.5" y="38" width="6" height="6" fill="#141210"/></g><rect x="146" y="3" width="44" height="24" rx="3" fill="#141210" stroke="#f7c948" stroke-width="2"/><text x="168" y="21" font-family="Arial" font-size="15" font-weight="700" fill="#f7c948" text-anchor="middle">P1</text><rect x="8" y="50" width="120" height="13" rx="2" fill="#141210" opacity="0.85"/><text x="14" y="59.5" font-family="Arial" font-size="8" font-weight="700" fill="#ffd9a0">ANTONELLI 1:33.893 &rarr; P6</text></svg>
 <span class="flag">VEGAS: POLE TWIST</span><span class="pill p-off">OFFICIAL</span><span class="tag">FIA / FORMULA 1 / REUTERS</span></div>
 <h2 style="letter-spacing:-.2px">Verstappen inherits Vegas pole as Antonelli pays the price</h2>
 <p>Kimi Antonelli, newly crowned world champion, was fastest in qualifying at 1:33.893, 0.258s clear of Max Verstappen &mdash; but a five-place grid penalty for a power-unit change drops him to sixth. Verstappen starts on pole with Russell beside him; Norris fourth, Hadjar fifth. Both Ferraris missed Q3. Race 20:00 local.</p>
